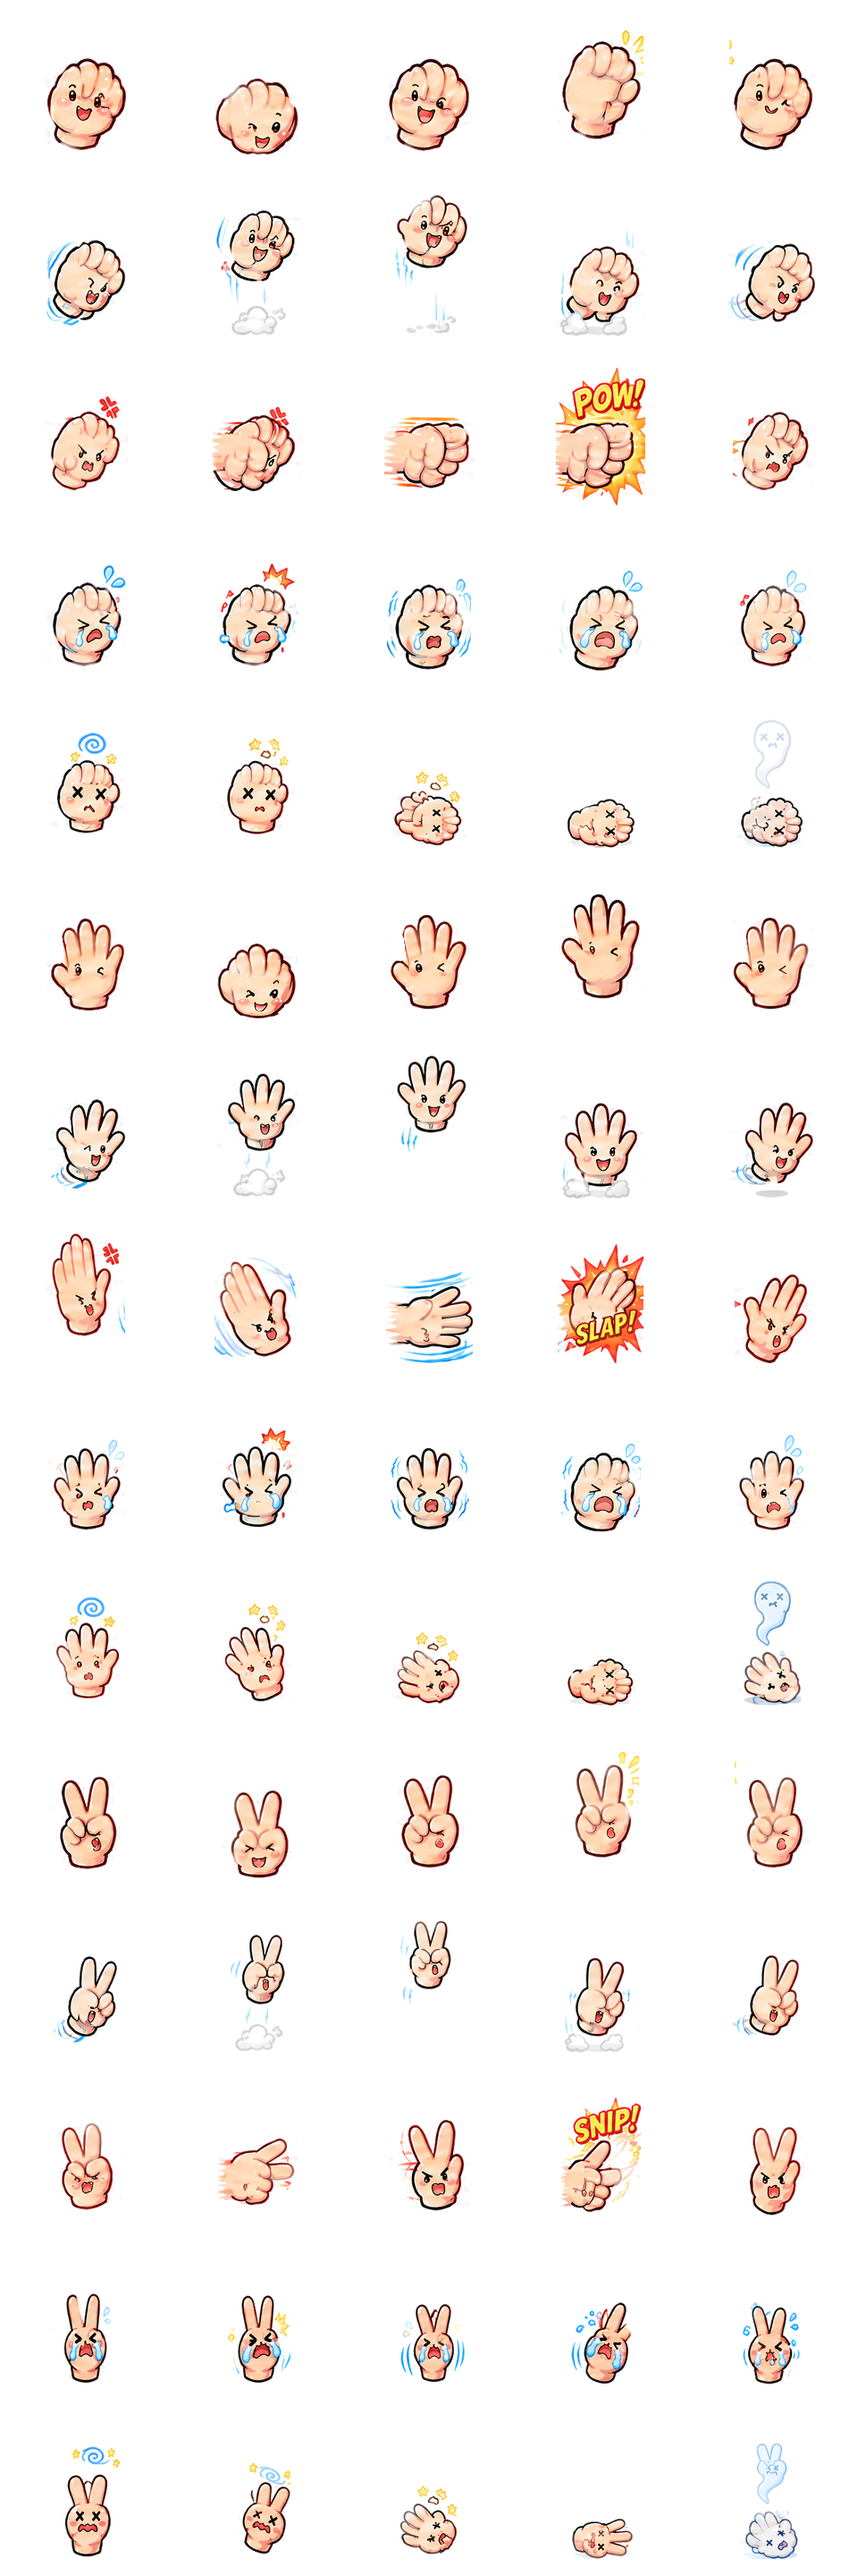
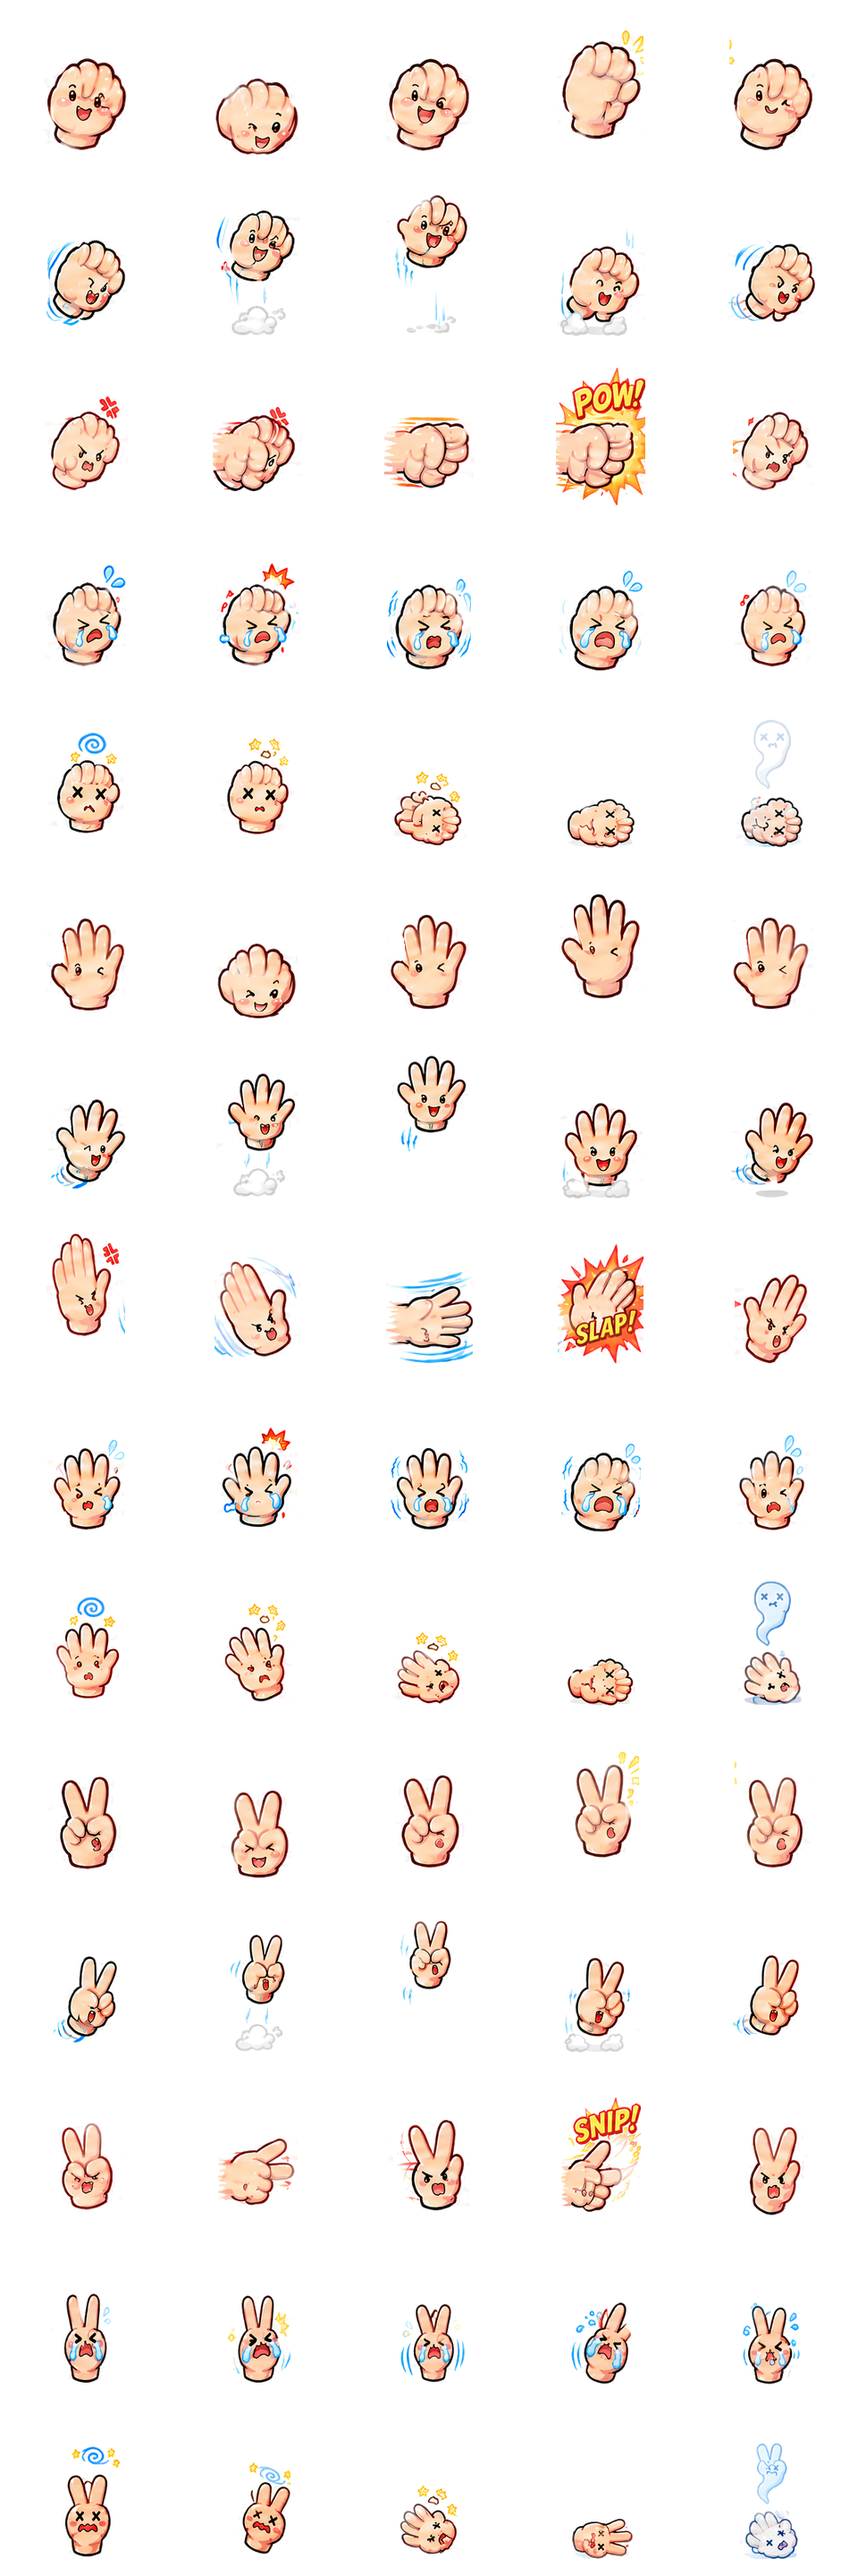
Routes and taps on plateaus; walking hands no longer fade
- The dotted route follows the ground up ramps and across plateau tops;
  move markers sit on the plateau; a tap on a plateau lands on its top
  (not on the ground plane under it).
- The walking (and hit, death) frames were painted paler than the idle
  ones, so hands faded as they moved; the cutter now matches each
  animation's skin colour to the same hand's idle frames.

Claude-Session: https://claude.ai/code/session_01R2EQohRet1QfgKEYwNZLap

diff --git a/tools/cut_hand_sprites.py b/tools/cut_hand_sprites.py
@@ -115,6 +115,49 @@ def erase(rgba, polygons, x0, y0):
     return out
 
 
+def skin_stats(cells):
+    """Mean saturation and value of the skin (solid, light pixels) in cells."""
+    import colorsys
+    px = []
+    for c in cells:
+        a = np.array(c).astype(float)
+        m = a[..., 3] > 250
+        p = a[m][:, :3]
+        p = p[p.mean(axis=1) > 150] / 255.0
+        px.append(p)
+    p = np.concatenate(px)
+    hsv = np.array([colorsys.rgb_to_hsv(*q) for q in p[::7]])
+    return hsv[:, 1].mean(), hsv[:, 2].mean()
+
+
+def match_colours(atlas):
+    """Some animations were painted paler than the idle frames (moving,
+    getting hit): bring each one's skin saturation and brightness in line
+    with the same hand's idle frames, so a hand doesn't fade as it walks."""
+    import colorsys
+    for k in range(3):
+        cells = lambda st: [atlas.crop((f * CELL, (k * 5 + st) * CELL, (f + 1) * CELL, (k * 5 + st + 1) * CELL)) for f in range(5)]
+        sat0, val0 = skin_stats(cells(0))
+        for st in range(1, 5):
+            sat, val = skin_stats(cells(st))
+            boost = float(np.clip(sat0 / max(sat, 1e-3), 1.0, 1.6))
+            dim = float(np.clip(val0 / max(val, 1e-3), 0.85, 1.0))
+            if boost < 1.03 and dim > 0.99:
+                continue
+            box = (0, (k * 5 + st) * CELL, 5 * CELL, (k * 5 + st + 1) * CELL)
+            a = np.array(atlas.crop(box)).astype(float) / 255.0
+            rgb = a[..., :3]
+            mx = rgb.max(axis=2, keepdims=True)
+            mn = rgb.min(axis=2, keepdims=True)
+            # Saturation up around each pixel's brightest channel; value scaled.
+            grey = mx
+            rgb = grey - (grey - rgb) * boost
+            rgb = np.clip(rgb * dim, 0, 1)
+            a[..., :3] = np.where(a[..., 3:] > 0, rgb, a[..., :3])
+            atlas.paste(Image.fromarray((a * 255).round().astype(np.uint8), "RGBA"), box[:2])
+            print("kind %d state %d: saturation x%.2f, value x%.2f" % (k, st, boost, dim))
+
+
 def main():
     atlas = Image.new('RGBA', (CELL * 5, CELL * 15), (0, 0, 0, 0))
     clipped = []
@@ -148,6 +191,7 @@ def main():
                 edge = np.array(cell)[..., 3]
                 if edge[-1].max() > 40 or edge[0].max() > 40:
                     clipped.append((k, state, f))
+    match_colours(atlas)
     atlas.save(sys.argv[2])
     print('atlas', atlas.size, 'cut off at top/bottom (kind, state, frame):', clipped)
 
